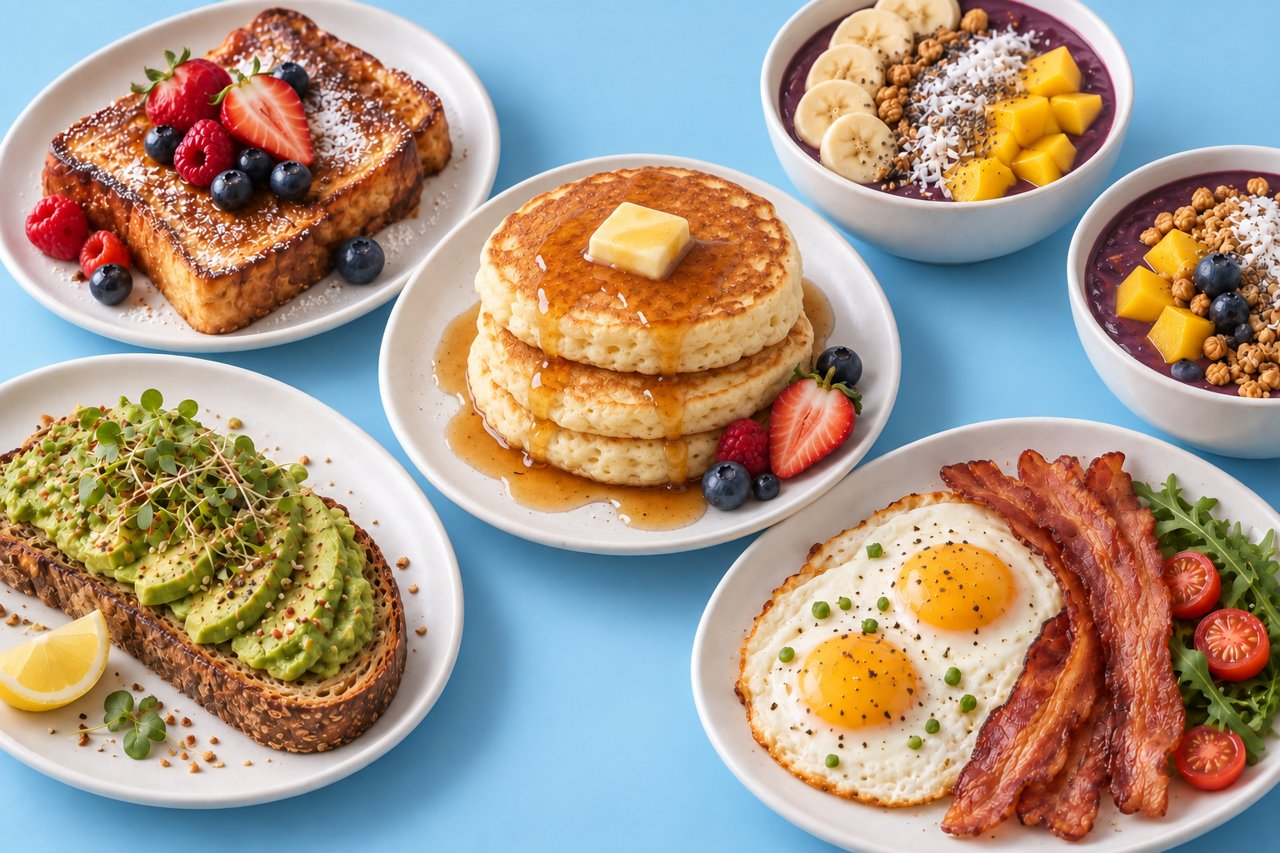
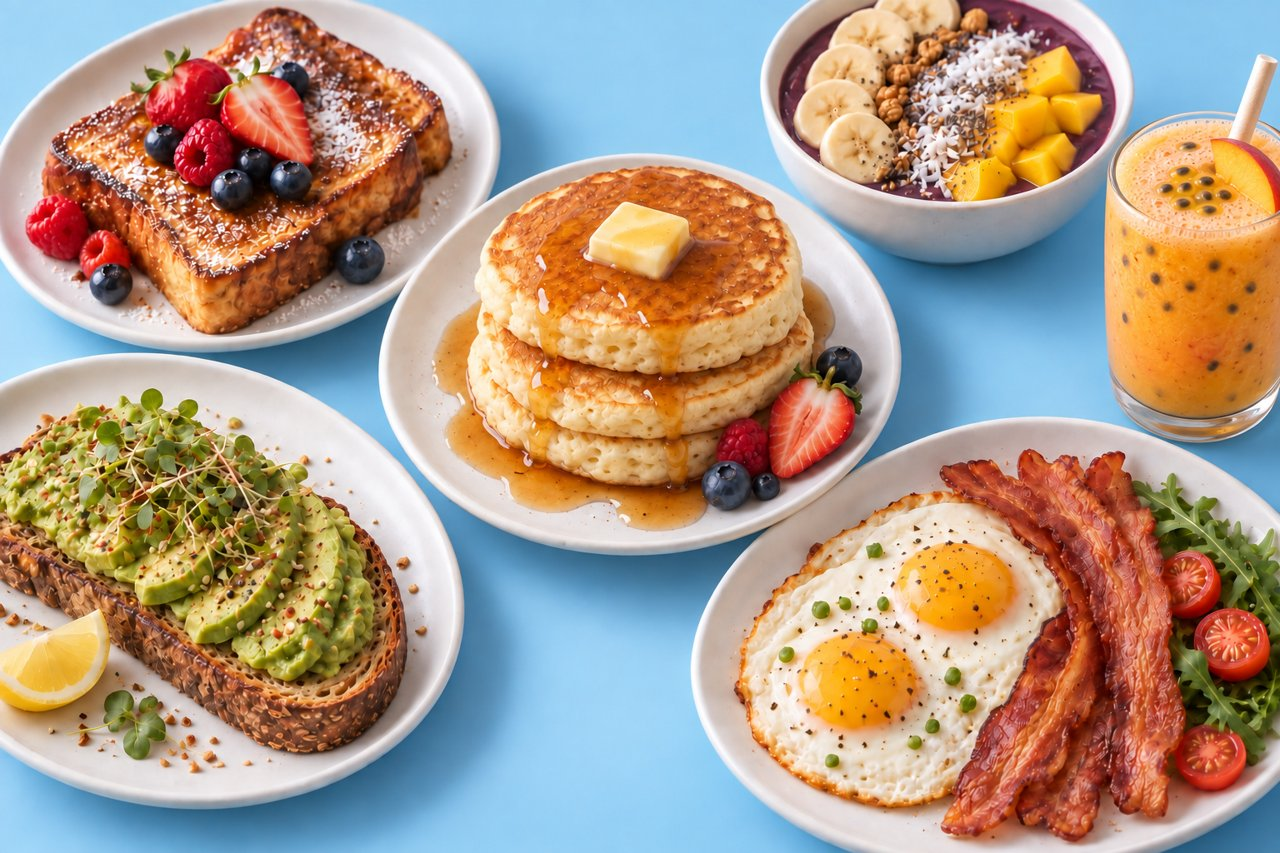
Bring surfers closer and replace one acai bowl with smoothie

diff --git a/index.html b/index.html
@@ -5,5 +5,5 @@
 <section class="menu" aria-label="Breakfast menu"><section class="category"><h2>Entrées</h2><article><h3>Avocado Toast <b>$9.25</b></h3><p>Creamy fresh avocado spread over warm, crunchy toast.</p></article><article><h3>French Toast <b>$7.99</b></h3><p>Freshly griddled French toast made golden and soft.</p></article><article><h3>Buttermilk Pancakes <b>$10.00</b></h3><p>Freshly flipped pancakes made fluffy, warm, and buttery.</p></article></section>
 <section class="category"><h2>Sides</h2><article><h3>Bacon &amp; Eggs <b>$4.50</b></h3><p>Crispy bacon paired perfectly with freshly cooked eggs.</p></article><article><h3>Mango Açaí Bowl <b>$8.50</b></h3><p>Fresh açaí blended with juicy mango for a tropical treat.</p></article><article><h3>Classic Açaí Bowl <b>$12.00</b></h3><p>Freshly blended açaí packed with rich, velvety berry flavor.</p></article></section>
 <section class="category"><h2>Drinks</h2><article><h3>Passionfruit Peach Sunrise Smoothie <b>$4.00</b></h3><p>Peach, mango, and passionfruit blended fresh and silky.</p></article><article><h3>Orange Juice <b>$2.50</b></h3><p>Freshly poured orange juice bursting with sweet citrus flavor.</p></article><article><h3>Caramel Vanilla Latte <b>$6.99</b></h3><p>Fresh coffee blended with smooth vanilla and dreamy caramel.</p></article></section></section>
-</div><section class="beach-section" aria-labelledby="beach-title"><div class="section-copy"><p class="eyebrow">FIND YOUR SUNNY SIDE</p><h2 id="beach-title">Breakfast by the ocean.<br><em>Newport Beach, California.</em></h2><p>Salty air, rolling waves, and a fresh breakfast. Sunny Side Up brings American and Brazilian breakfast to Newport Beach.</p></div><figure class="surf-photo"><img src="assets/sunny-surf.jpg" width="1280" height="853" loading="lazy" alt="Two surfboards resting deck-side up on warm sand with tiny distant surfers on the ocean waves"></figure></section><section class="food-section" aria-labelledby="food-title"><div class="section-copy"><p class="eyebrow">A TABLE FULL OF GOOD MORNINGS</p><h2 id="food-title">A little sweet. A little savory.<br><em>A whole lot of sunshine.</em></h2><p>Golden French toast, fluffy pancakes, creamy avocado toast, and colorful açaí bowls. Pick your favorite way to rise, shine, and dine.</p></div><figure><img src="assets/cute-breakfast.jpg" width="1536" height="1024" loading="lazy" alt="An illustrated breakfast spread of golden pancakes, French toast, avocado toast, bacon and eggs, and colorful açaí bowls on closely arranged white plates"></figure></section><footer><span>FRESH BREAKFAST</span><span aria-hidden="true"><svg aria-hidden="true" viewBox="0 0 40 32" width="28" height="24" style="display:block"><path d="M8 7C12 1 20 3 24 5C31 3 38 10 36 17C39 24 30 30 23 28C15 32 4 28 4 21C0 16 3 10 8 7Z" fill="#fffdf5" stroke="#b99445" stroke-width="1.2"/><circle cx="20" cy="16" r="7" fill="#f4b928"/><circle cx="18" cy="14" r="2" fill="#ffe58c"/></svg></span><strong>Come hungry. Leave sunny.</strong><span aria-hidden="true"><svg aria-hidden="true" viewBox="0 0 40 32" width="28" height="24" style="display:block"><path d="M8 7C12 1 20 3 24 5C31 3 38 10 36 17C39 24 30 30 23 28C15 32 4 28 4 21C0 16 3 10 8 7Z" fill="#fffdf5" stroke="#b99445" stroke-width="1.2"/><circle cx="20" cy="16" r="7" fill="#f4b928"/><circle cx="18" cy="14" r="2" fill="#ffe58c"/></svg></span><span>BEACH-DAY ENERGY</span></footer>
+</div><section class="beach-section" aria-labelledby="beach-title"><div class="section-copy"><p class="eyebrow">FIND YOUR SUNNY SIDE</p><h2 id="beach-title">Breakfast by the ocean.<br><em>Newport Beach, California.</em></h2><p>Salty air, rolling waves, and a fresh breakfast. Sunny Side Up brings American and Brazilian breakfast to Newport Beach.</p></div><figure class="surf-photo"><img src="assets/sunny-surf.jpg" width="1280" height="853" loading="lazy" alt="Two surfboards resting deck-side up on warm sand with a few surfers riding the waves beyond the shore"></figure></section><section class="food-section" aria-labelledby="food-title"><div class="section-copy"><p class="eyebrow">A TABLE FULL OF GOOD MORNINGS</p><h2 id="food-title">A little sweet. A little savory.<br><em>A whole lot of sunshine.</em></h2><p>Golden French toast, fluffy pancakes, creamy avocado toast, and colorful açaí bowls. Pick your favorite way to rise, shine, and dine.</p></div><figure><img src="assets/cute-breakfast.jpg" width="1536" height="1024" loading="lazy" alt="An illustrated breakfast spread of golden pancakes, French toast, avocado toast, bacon and eggs, an açaí bowl, and a peach passionfruit smoothie arranged closely together"></figure></section><footer><span>FRESH BREAKFAST</span><span aria-hidden="true"><svg aria-hidden="true" viewBox="0 0 40 32" width="28" height="24" style="display:block"><path d="M8 7C12 1 20 3 24 5C31 3 38 10 36 17C39 24 30 30 23 28C15 32 4 28 4 21C0 16 3 10 8 7Z" fill="#fffdf5" stroke="#b99445" stroke-width="1.2"/><circle cx="20" cy="16" r="7" fill="#f4b928"/><circle cx="18" cy="14" r="2" fill="#ffe58c"/></svg></span><strong>Come hungry. Leave sunny.</strong><span aria-hidden="true"><svg aria-hidden="true" viewBox="0 0 40 32" width="28" height="24" style="display:block"><path d="M8 7C12 1 20 3 24 5C31 3 38 10 36 17C39 24 30 30 23 28C15 32 4 28 4 21C0 16 3 10 8 7Z" fill="#fffdf5" stroke="#b99445" stroke-width="1.2"/><circle cx="20" cy="16" r="7" fill="#f4b928"/><circle cx="18" cy="14" r="2" fill="#ffe58c"/></svg></span><span>BEACH-DAY ENERGY</span></footer>
 </main><script src="app.js"></script></body></html>
